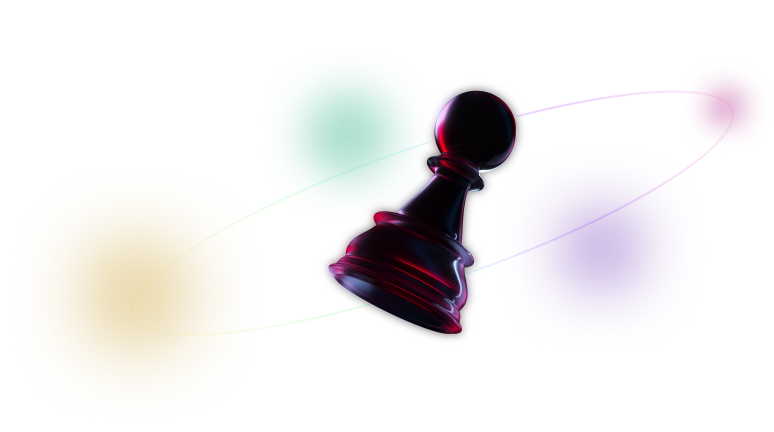
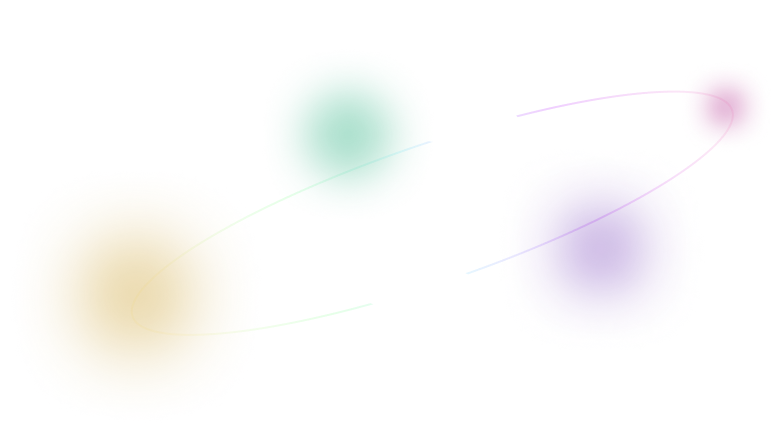
Detach Pawn from Illust and add animation

Changed region(s): [[0.4031, 0.1806, 0.6822, 0.7824]]

diff --git a/packages/bento-web/src/landing/components/HeaderSection.tsx b/packages/bento-web/src/landing/components/HeaderSection.tsx
@@ -9,6 +9,10 @@ const ASSETS = {
     '/assets/landing/header-illust.png',
     '/assets/landing/header-illust@2x.png',
   ],
+  PAWN: [
+    '/assets/landing/header-pawn.png',
+    '/assets/landing/header-pawn@2x.png',
+  ],
 };
 
 const float = (y: number, reverse: boolean = false) => ({
@@ -36,9 +40,25 @@ export const HeaderSection: React.FC = () => {
           <Illust
             src={ASSETS.ILLUST[0]}
             srcSet={dedent`
-            ${ASSETS.ILLUST[0]} 1x,
-            ${ASSETS.ILLUST[1]} 2x
-          `}
+              ${ASSETS.ILLUST[0]} 1x,
+              ${ASSETS.ILLUST[1]} 2x
+            `}
+          />
+
+          <Pawn
+            src={ASSETS.PAWN[0]}
+            srcSet={dedent`
+              ${ASSETS.PAWN[0]} 1x,
+              ${ASSETS.PAWN[1]} 2x
+            `}
+            initial={{ y: 5, scale: 1, rotate: 10 }}
+            animate={{ y: 5, scale: 1.1, rotate: 10 }}
+            transition={{
+              ease: 'linear',
+              repeat: Infinity,
+              repeatType: 'mirror',
+              duration: 2,
+            }}
           />
 
           <AbsoluteContainer
@@ -218,4 +238,14 @@ const Illust = styled.img`
   margin-bottom: ${-ILLUST_BLUR_BOTTOM}px;
   width: ${662 + ILLUST_BLUR_LEFT + ILLUST_BLUR_RIGHT}px;
   height: ${413.74 + ILLUST_BLUR_BOTTOM}px;
+`;
+
+const Pawn = styled(motion.img)`
+  width: ${413.74 + ILLUST_BLUR_BOTTOM}px;
+  height: ${413.74 + ILLUST_BLUR_BOTTOM}px;
+
+  position: absolute;
+  top: 0;
+  left: ${173.3 - ILLUST_BLUR_LEFT + ILLUST_BLUR_RIGHT}px;
+  bottom: 0;
 `;
